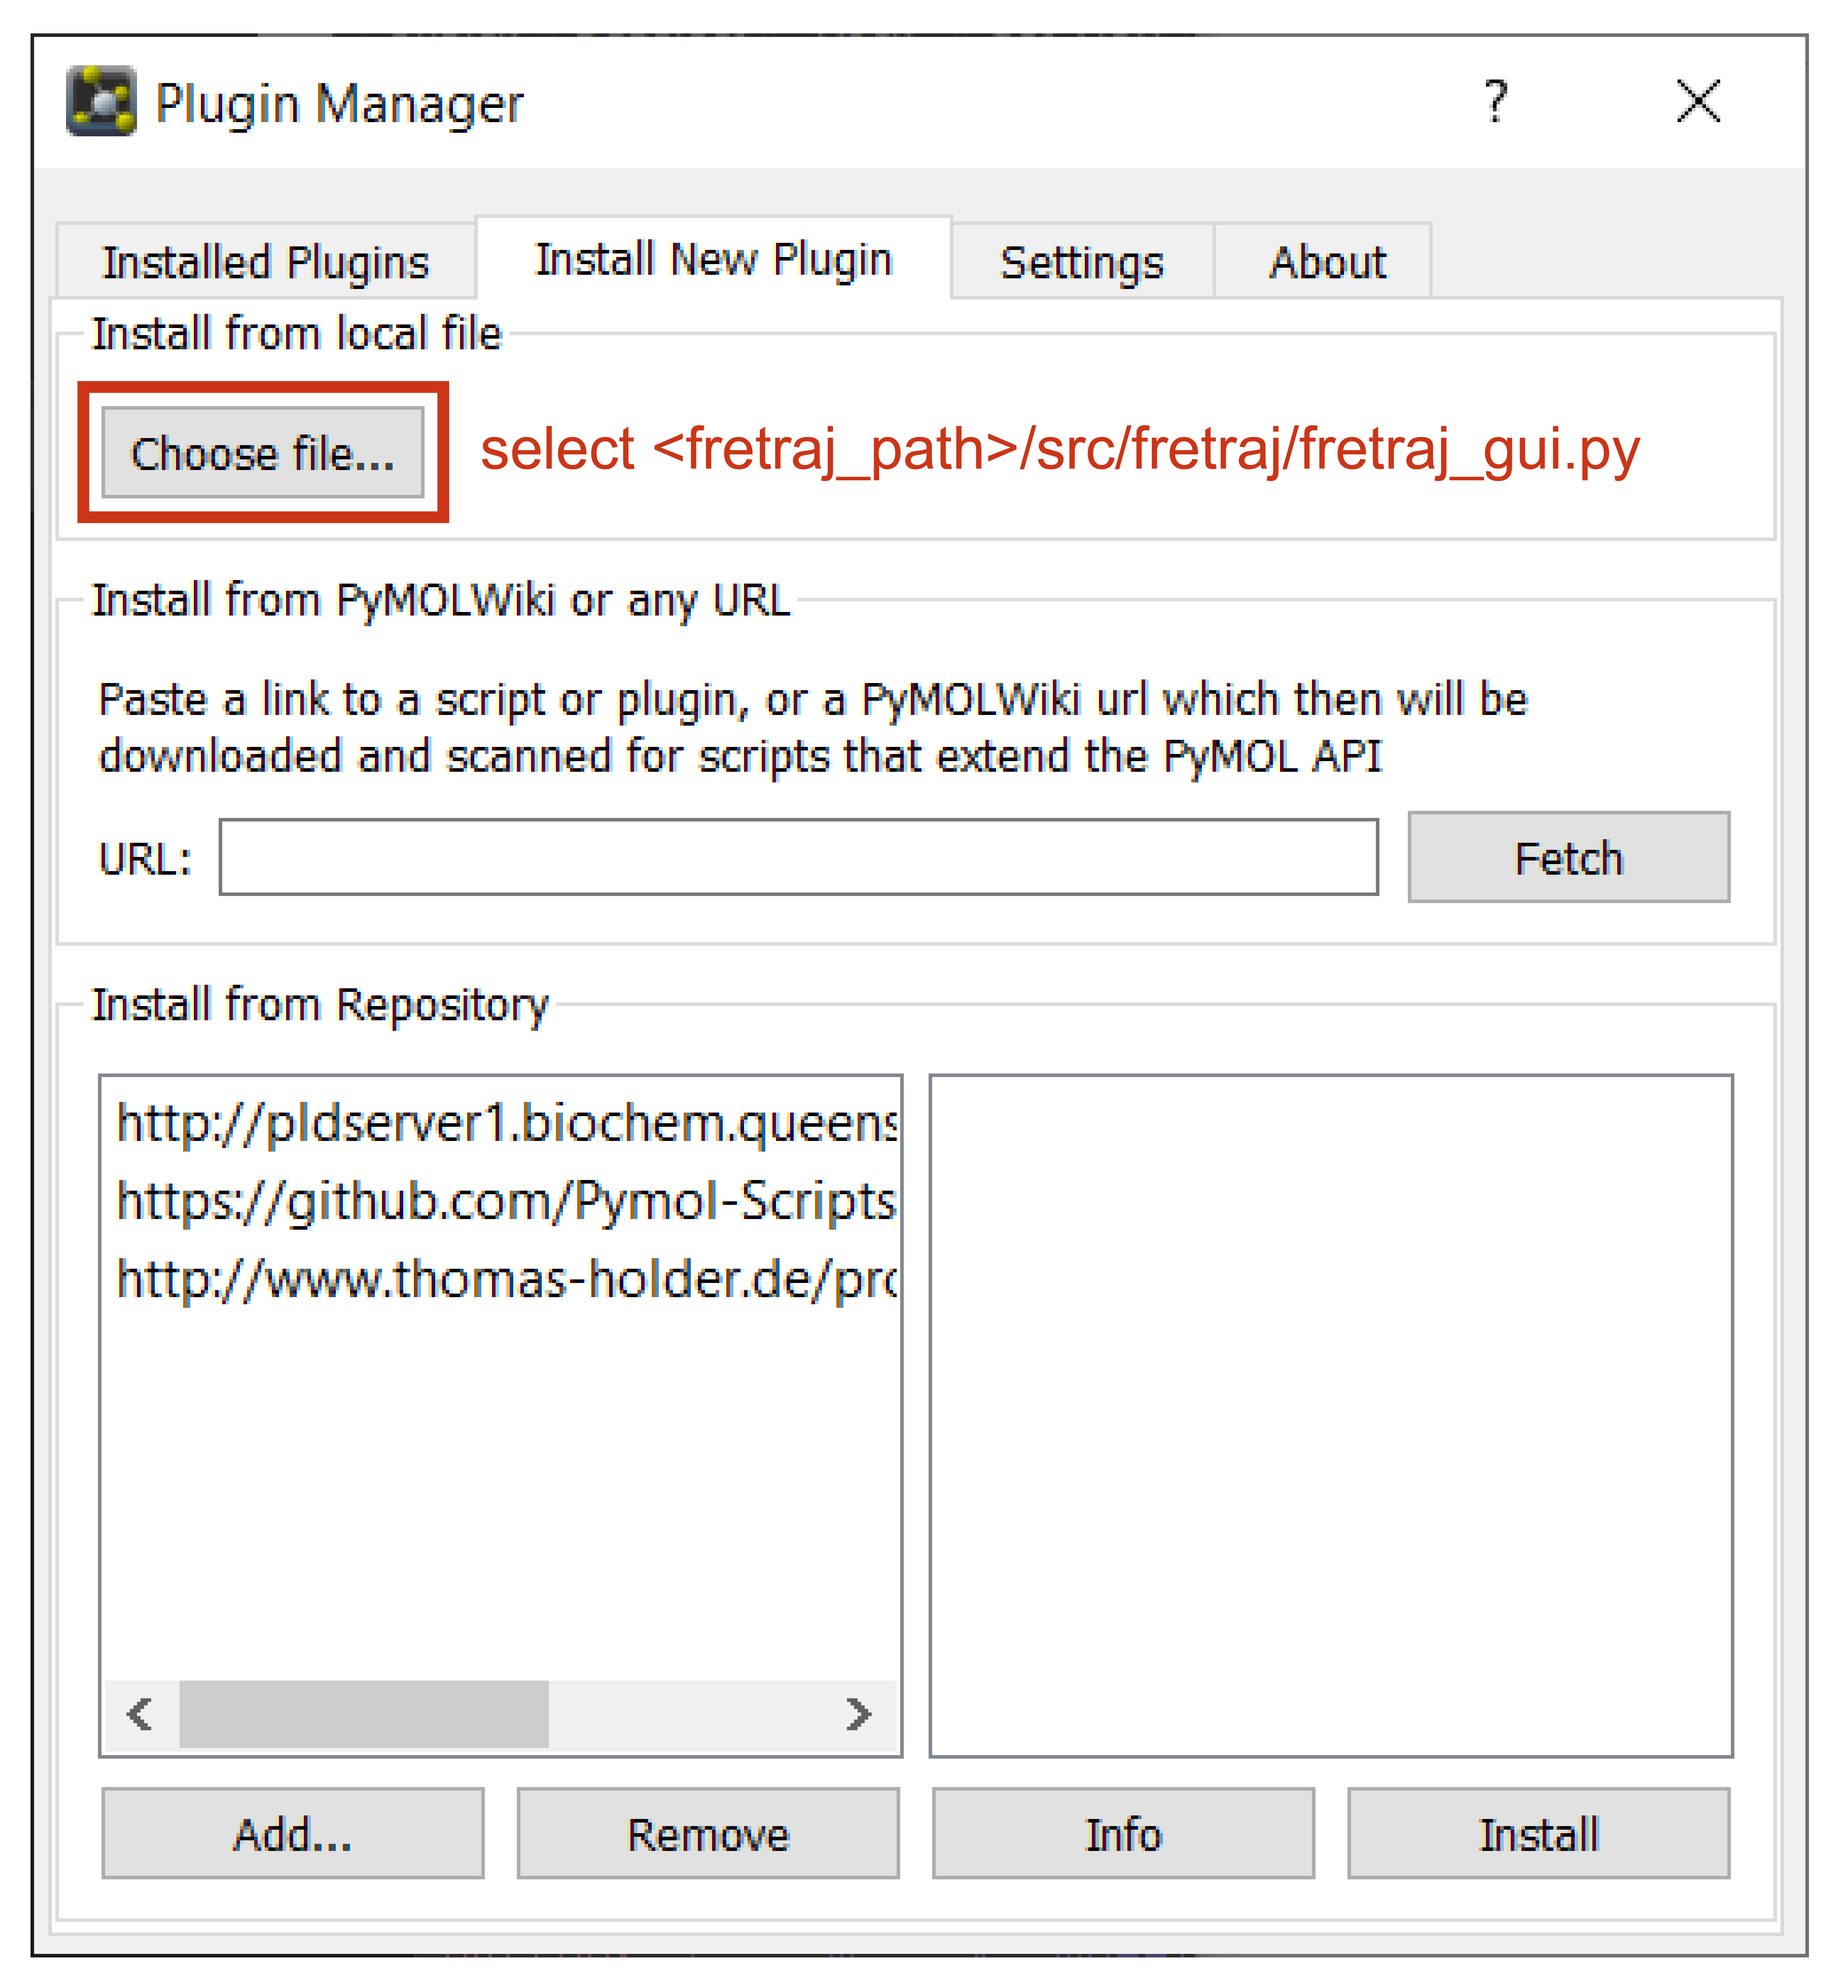
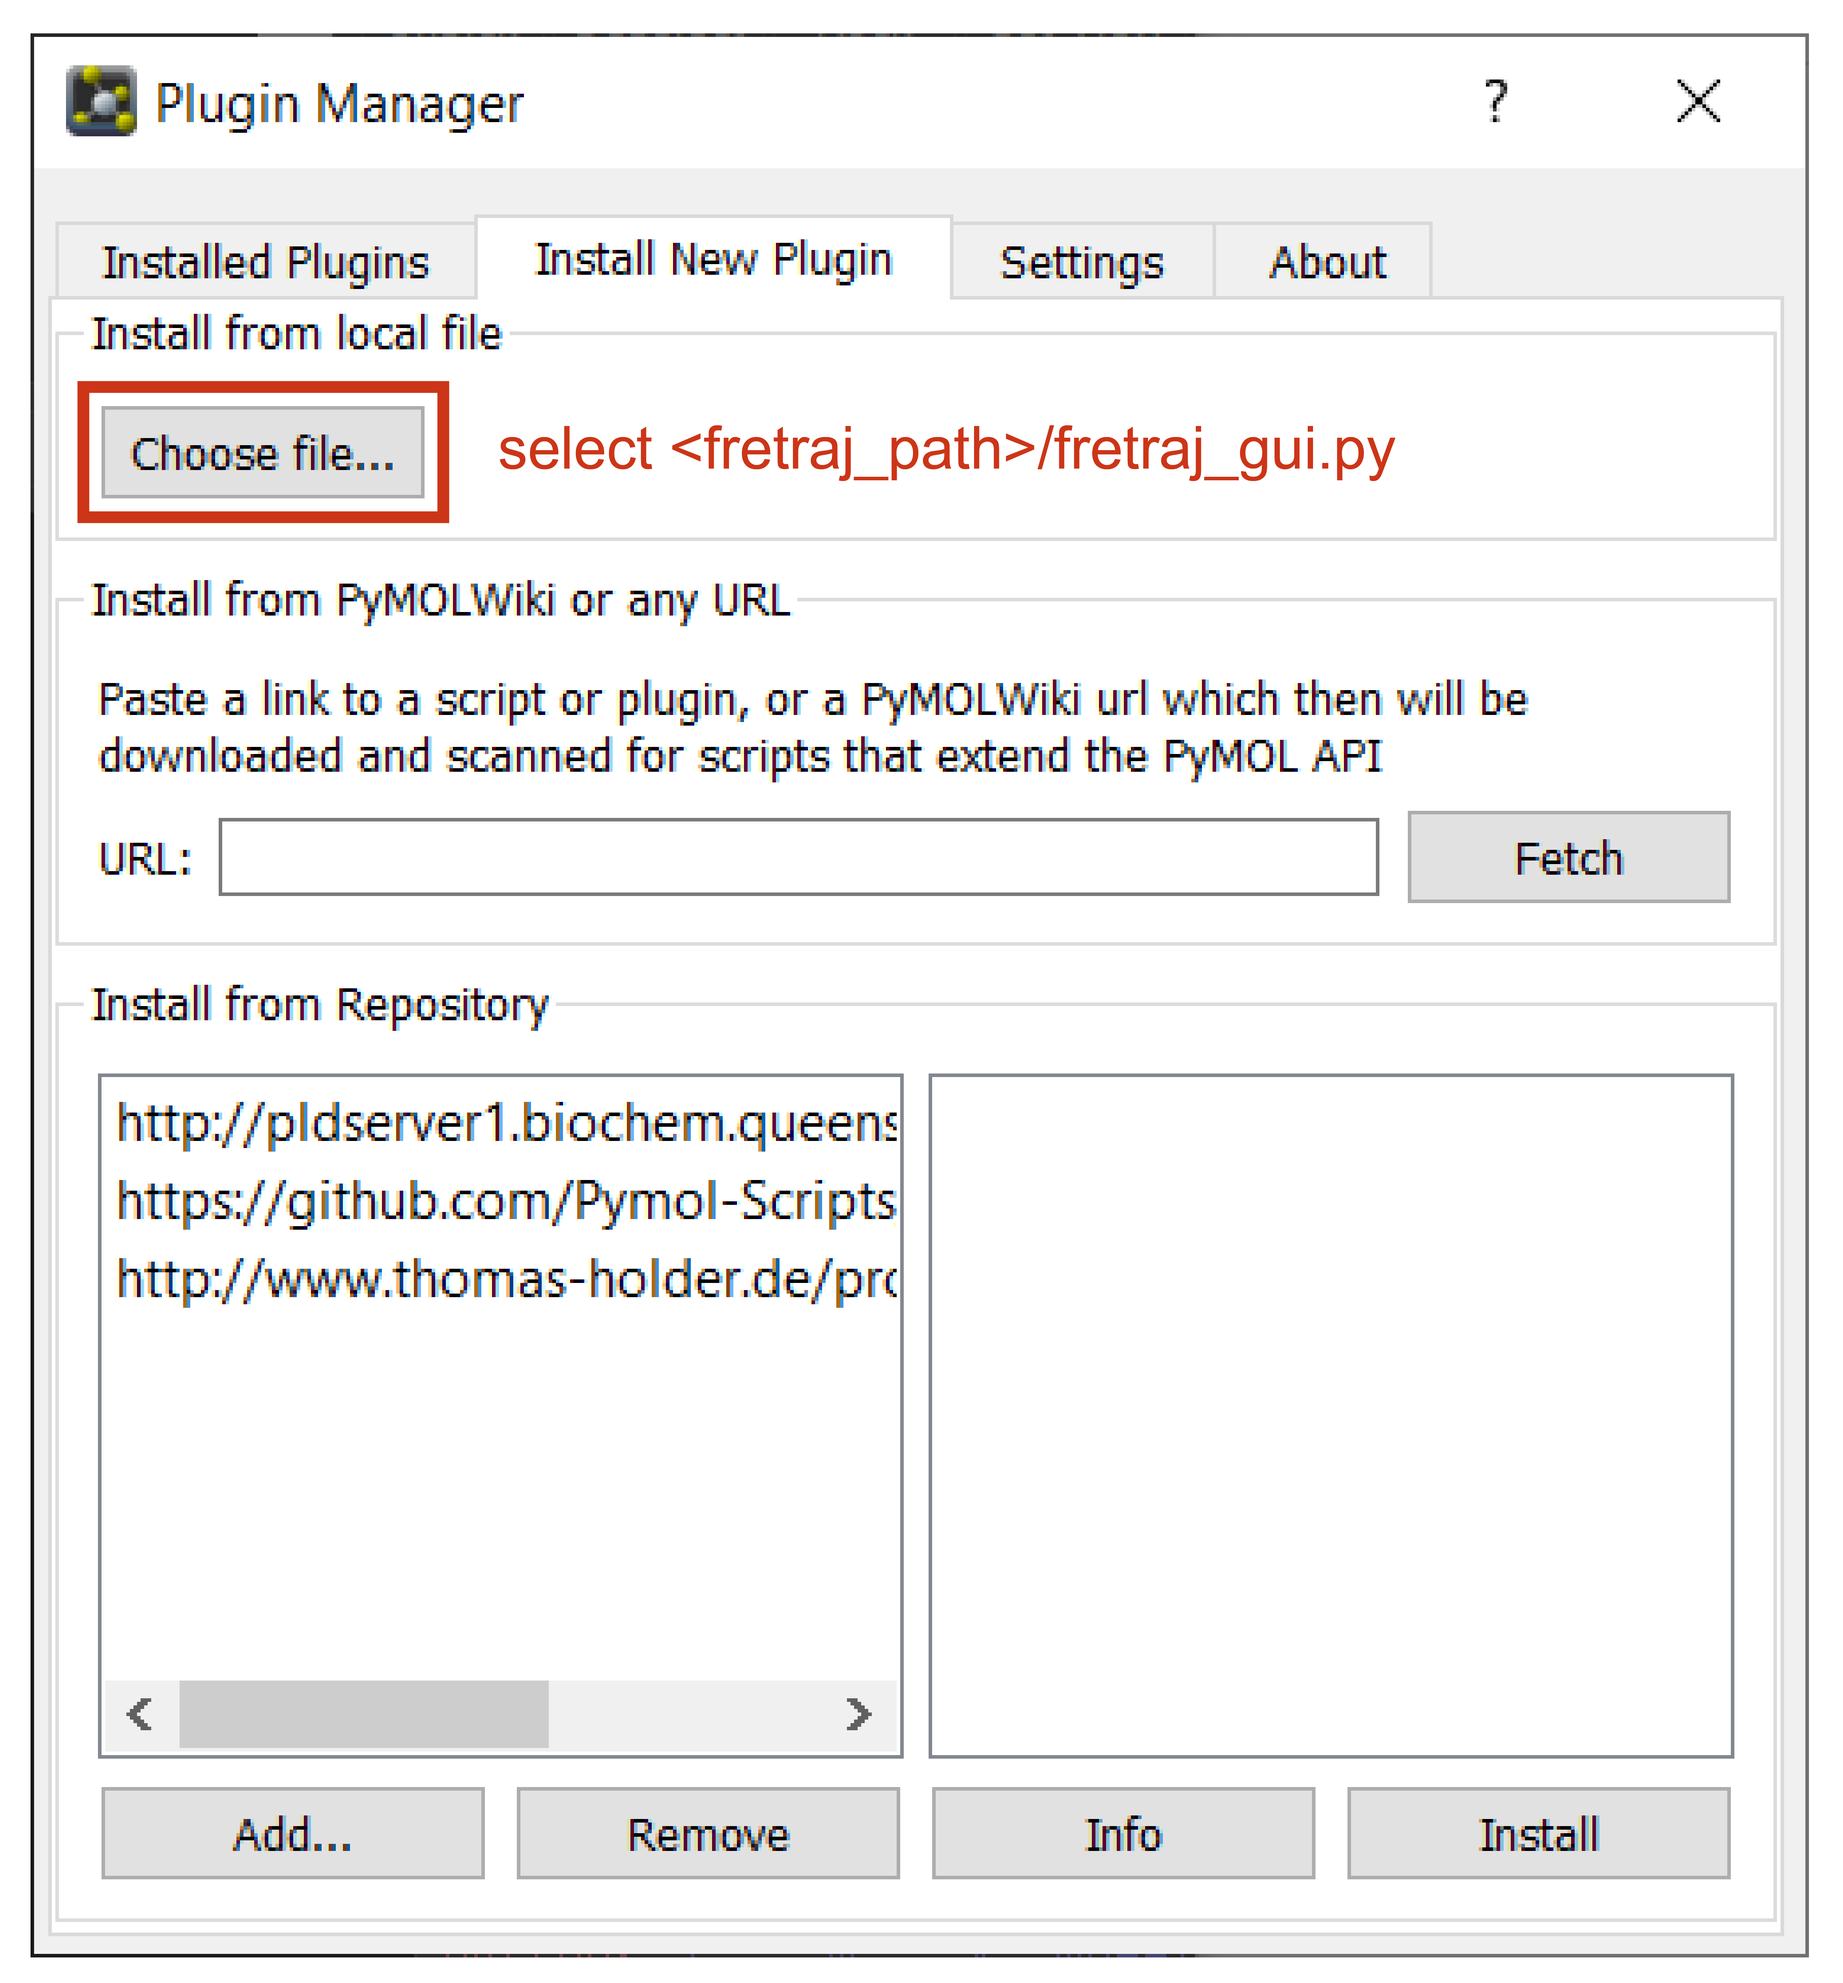
Add jupyter notebook tutorials

Changed region(s): [[0.2496, 0.218, 0.9049, 0.2492]]

diff --git a/src/fretraj/jupyter.py b/src/fretraj/jupyter.py
@@ -43,10 +43,8 @@ def nglview_trajectory_AV(traj_biomol, traj_volume1, traj_volume2, surface_repre
     ----------
     traj_biomol : mdtraj.Trajectory
         trajectory of the biomolecule
-    traj_volume1 : mdtraj.Trajectory
-        trajectory of the donor accessible volume
-    traj_volume2 : mdtraj.Trajectory
-        trajectory of the acceptor accessible volume
+    traj_volume1, traj_volume2 : mdtraj.Trajectory
+        trajectory of the donor and acceptor accessible volume
     surface_representation : bool (default: False)
         show a surface representation (instead of spacefill, which is faster)
 
@@ -85,14 +83,10 @@ def nglview_trajectory_ACV(traj_biomol, traj_volume1_FV, traj_volume2_FV, traj_v
     ----------
     traj_biomol : mdtraj.Trajectory
         trajectory of the biomolecule
-    traj_volume1_FV : mdtraj.Trajectory
-        trajectory of the donor free volume
-    traj_volume2_FV : mdtraj.Trajectory
-        trajectory of the acceptor free volume
-    traj_volume1_CV : mdtraj.Trajectory
-        trajectory of the donor contact volume
-    traj_volume2_CV : mdtraj.Trajectory
-        trajectory of the acceptor contact volume
+    traj_volume1_FV, traj_volume2_FV : mdtraj.Trajectory
+        trajectory of the donor and acceptor free volume
+    traj_volume1_CV, traj_volume2_CV : mdtraj.Trajectory
+        trajectory of the donor and acceptor contact volume
 
     Returns
     -------
@@ -133,10 +127,8 @@ def nglview_multimodel_ACV(biomol_filename, volume1_filename, volume2_filename):
     ----------
     structure_filename : str
                          multi-model PDB of the biomolecule
-    volume1_filename : str
-                       multi-model PDB of the donor accessible-contact volume
-    volume2_filename : str
-                       multi-model PDB of the acceptor accessible-contact volume
+    volume1_filename, volume2_filename : str
+        multi-model PDB of the donor and acceptor accessible-contact volume
 
     Returns
     -------

diff --git a/docs/getting_started/installation.md b/docs/getting_started/installation.md
@@ -3,10 +3,15 @@
 ## 1. Install PyMOL and FRETraj
 ````{tabbed} For Windows
 - Get the latest binaries of PyMOL from [Schrödinger](https://pymol.org/)
-- Search for **Anaconda prompt** on Windows (is bundled with PyMOL) and run the following command to install *FRETraj* from the `RNA-FRETools` channel on Anaconda.
+- Search for **Anaconda prompt** in the Windows start menu and run the following command to install *FRETraj* from the `RNA-FRETools` channel from anaconda.org.
 
     ```
-    conda install fretraj -c rna-fretools conda-forge
+    conda install fretraj -c rna-fretools -c conda-forge
+    ```
+- Locate the installation directory by running
+
+    ```
+    fretraj --path
     ```
 ````
 
@@ -34,7 +39,7 @@
     ````{tabbed} conda
     Install from **Anaconda**
     ```
-    conda install fretraj -c rna-fretools conda-forge
+    conda install fretraj -c rna-fretools -c conda-forge
     ```
     ```` 
 
@@ -56,14 +61,20 @@
     # alternatively, install in non-editable mode with pip
     pip install .  
     ```
-    `````    
+    `````
+- Locate the installation directory by running
+
+    ```
+    fretraj --path
+    ```
 ``````
 
+
 ## 2. Register the Plugin
-Install the *FRETraj* GUI with PyMOL's Plugin manager: `Plugin` &rarr; `Plugin manager` &rarr; `Install New Plugin` &rarr; `Choose file...` and select the `fretraj_gui.py` file located under `src/fretraj/`. Upon first startup FRETraj will prompt you to select a root directory where to store the calculated ACVs and parameter files.
+Install the *FRETraj* GUI with PyMOL's Plugin manager: `Plugin` &rarr; `Plugin manager` &rarr; `Install New Plugin` &rarr; `Choose file...` and select the `fretraj_gui.py` file located in the directory that was issued by `fretraj --path`. Upon first startup, *FRETraj* will prompt you to select a root directory where to store the calculated ACVs and parameter files.
 
 ```{tip}
-Within FRETraj you can load a **demo project** by going to `Help` &rarr; `Load Example`. You may also want to have a look at this [step-by-step tutorial](acv_calculation).
+Within *FRETraj* you can load a **demo project** by going to `Help` &rarr; `Load Example`. You may also want to have a look at this [step-by-step tutorial](acv_calculation).
 ```
 
 ```{figure} ../images/pymol_plugin_manager.png
@@ -76,7 +87,7 @@ PyMOL's plugin manager on Windows.
 
  
 `````{admonition} Accelerated ACV calculation with LabelLib
-For faster computation of the ACVs you may additionally consider installing the C++ library [LabelLib](https://github.com/Fluorescence-Tools/LabelLib) with either `pip` or `conda`. However, is not strictly required since *FRETraj* features a built-in Python implementation of the ACV algorithm.
+For faster computation of the accessible-contact volumes you may additionally consider installing the C++ library [LabelLib](https://github.com/Fluorescence-Tools/LabelLib) with either `pip` or `conda`. However, is not strictly required since *FRETraj* features a built-in Python implementation of the ACV algorithm.
 
 ````{tabbed} pip
 ```

diff --git a/docs/getting_started/trajectories.md b/docs/getting_started/trajectories.md
@@ -1,0 +1,60 @@
+---
+jupytext:
+  formats: ipynb,md:myst
+  text_representation:
+    extension: .md
+    format_name: myst
+    format_version: 0.12
+    jupytext_version: 1.8.2
+kernelspec:
+  display_name: Python 3
+  language: python
+  name: python3
+---
+
+# Working with trajectories
+
+```{code-cell} ipython3
+from matplotlib import pyplot as plt
+import mdtraj as md
+import fretraj as ft
+import os
+example_dir = '../../src/fretraj/examples/'
+```
+
+We load again a DNA double helix but this time from a 1$\,\mu$s MD trajectory along with the labeling parameters.
+
+```{code-cell} ipython3
+traj = md.load(os.path.join(example_dir+'DNA.xtc'), 
+               top=os.path.join(example_dir+'DNA.pdb'),
+               stride=10)
+labels = ft.cloud.labeling_params(os.path.join(example_dir+'DNA_labels.json'), verbose=False)
+print(f'timestep: {traj.timestep/1000 :.0f} ns')
+print(f'length: {traj.time[-1]/1000 :.0f} ns')
+```
+
+Next, we calculate ACVs along the trajectory (here every 100 ns, for simplicity).
+
+```{code-cell} ipython3
+:tags: [remove-output]
+
+frames = range(traj.n_frames)
+acv_D = ft.cloud.Volume.from_frames(traj, 'D-DT23-C7', labels, frames)
+acv_A = ft.cloud.Volume.from_frames(traj, 'A-DT31-C7', labels, frames)
+```
+
+Likewise, we compute a mean FRET efficiency per snapshot and combine them into a FRET trajectory.
+
+```{code-cell} ipython3
+fret = ft.cloud.FRET.from_volumes(acv_D, acv_A, 'Cy3-Cy5', labels)
+fret_traj = ft.cloud.Trajectory(fret, timestep=traj.timestep)
+fret_traj.dataframe
+```
+
+Launch **Binder** to visualize the multi-ACV trajectory.
+
+```{code-cell} ipython3
+acv_D_traj = ft.cloud.create_acv_traj(acv_D)
+acv_A_traj = ft.cloud.create_acv_traj(acv_A)
+ft.jupyter.nglview_trajectory_ACV(traj, acv_D_traj['FV'], acv_A_traj['FV'], acv_D_traj['CV'], acv_A_traj['CV'])
+```

diff --git a/docs/getting_started/jupyter-notebook.md b/docs/getting_started/jupyter-notebook.md
@@ -1,0 +1,70 @@
+---
+jupytext:
+  formats: ipynb,md:myst
+  text_representation:
+    extension: .md
+    format_name: myst
+    format_version: 0.12
+    jupytext_version: 1.8.2
+kernelspec:
+  display_name: Python 3
+  language: python
+  name: python3
+---
+
+# *FRETraj* and Jupyter
+
+```{code-cell} ipython3
+import mdtraj as md
+import fretraj as ft
+import os
+example_dir = '../../src/fretraj/examples/'
+```
+
+```{code-cell} ipython3
+:tags: [remove-cell]
+from myst_nb import glue
+```
+
+Let's first load a PDB file of a DNA.
+
+```{code-cell} ipython3
+struct = md.load(os.path.join(example_dir+'DNA.pdb'))
+```
+
+Next, we load a [parameter file](../background/parameter_file) specifying the positions of the donor and acceptor labels.
+
+```{code-cell} ipython3
+:tags: [hide-output]
+labels = ft.cloud.labeling_params(os.path.join(example_dir+'DNA_labels.json'), verbose=False)
+labels
+```
+
+We now calculate an ACV for the donor (`D-DT23-C7`) and acceptor (`A-DT31-C7`) position.
+
+```{code-cell} ipython3
+acv_D = ft.cloud.Volume(struct, 'D-DT23-C7', labels)
+acv_A = ft.cloud.Volume(struct, 'A-DT31-C7', labels)
+```
+
+The transfer efficiency is calculated by randomly sampling distances between the two ACVs.
+
+```{code-cell} ipython3
+fret = ft.cloud.FRET(acv_D, acv_A, 'Cy3-Cy5', labels)
+fret.values
+```
+
+Visualize the ACV together with the DNA directly in the notebook.
+
+```{code-cell} ipython3
+:tags: ['remove-output']
+acv_D_traj = ft.cloud.create_acv_traj([acv_D])
+acv_A_traj = ft.cloud.create_acv_traj([acv_A])
+ft.jupyter.nglview_trajectory_ACV(struct, acv_D_traj['FV'], acv_A_traj['FV'], 
+                                          acv_D_traj['CV'], acv_A_traj['CV'])
+```
+
+```{hint}
+To see this in action launch a **Binder** instance by clicking on the 🚀 at the top of the page.
+```
+

diff --git a/docs/getting_started/acv_calculation.md b/docs/getting_started/acv_calculation.md
@@ -5,7 +5,7 @@ Accessible contact volumes and FRET calculations can be done directly from PyMOL
 Start by opening the FRETraj GUI from the `Plugin Menu`.
 
 ```{note}
-Upon first startup, *FRETraj* asks the user to define a root directory where all output files (ACVs, label and FRET parameters) are stored 
+Upon first startup, *FRETraj* asks the user to define a root directory where all output files (ACVs, label and FRET parameters) will be stored.
 ```
 
 ```{figure} ../images/PyMOL_interface.png
